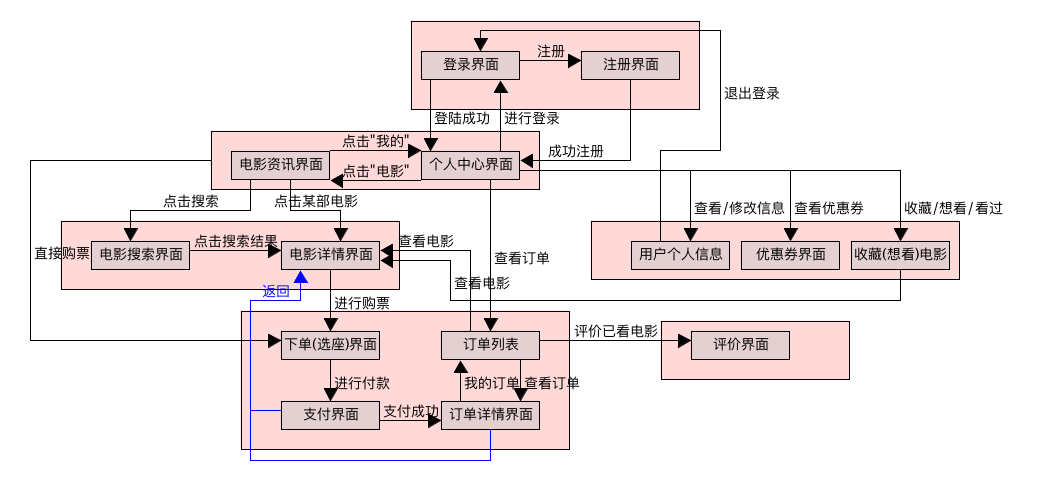
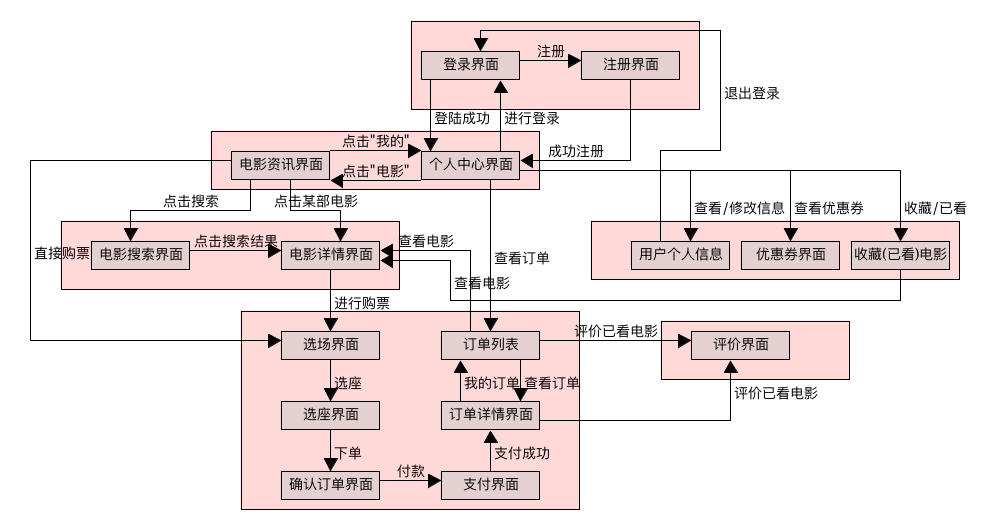
更新README项目结构和界面结构描述

Changed region(s): [[0.031, 0.03, 0.961, 0.99]]

diff --git a/src/components/movie/MovieDetail.vue b/src/components/movie/MovieDetail.vue
@@ -24,7 +24,7 @@ div#movie-detail
         div.playing-time {{ formatTime(detail.playingTime) + ' 上映' }}
   md-whiteframe
     div.description {{ detail.description }}
-  md-button.md-raised.md-primary.buy-ticket(@click.native="$router.push('/reservation/' + detail.id)") 立即购票
+  md-button.md-raised.md-primary.buy-ticket(@click.native="$router.push('/select-screen/' + detail.id)") 立即购票
 </template>
 
 <script>

diff --git a/README.md b/README.md
@@ -100,11 +100,14 @@ git pull upstream dev
     │    ├─movie：电影相关界面
     │    │   ├─MovieDetail.vue：电影详情界面
     │    │   └─MovieSearch.vue：电影搜索界面
-    │    ├─order：订单相关界面
-    │    │   ├─MyOrders.vue：全部订单/待付款/待取票/待放映/已放映界面
+    │    ├─order：订单相关界面与组件
+    │    │   ├─MyOrders.vue：全部订单/待付款/待放映/已放映界面
     │    │   ├─OrderDetail.vue：订单详情界面
     │    │   ├─OrderPay.vue：付款界面
-    │    │   └─Reservation.vue：下单选座界面
+    │    │   ├─PasswordInput.vue：支付密码输入控件
+    │    │   ├─Reservation.vue：确认下单界面
+    │    │   ├─SelectScreen.vue：选场次界面
+    │    │   └─SelectSeat.vue：选座位界面
     │    └─profile：用户中心相关界面
     │        ├─Coupons.vue：优惠券界面
     │        ├─MovieCollection.vue：收藏/已看/想看电影界面
